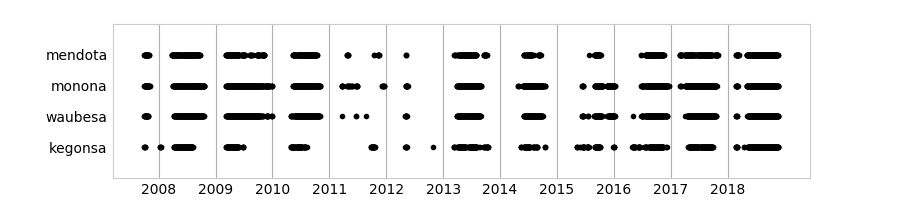
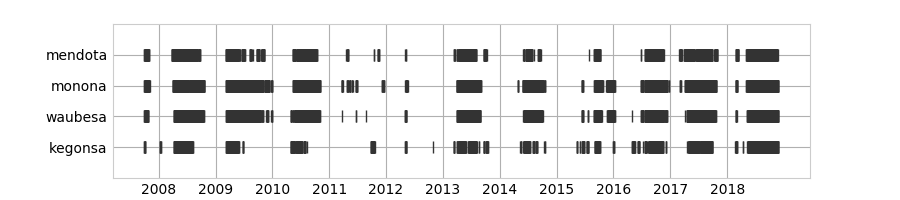
timeline graphic update

diff --git a/bin/make_graphic.py b/bin/make_graphic.py
@@ -20,12 +20,13 @@ def main():
         x = (df[name] > req.loc[name, 'summer_maximum']).astype(float)
         x[x == 0] = np.nan
         x *= i
-        ax.plot(x, 'k.', label=name, lw=3)
+        ax.plot(x, 'k.', label=name, markersize=8, markeredgewidth=1,
+                markeredgecolor='#333333', marker='|')
     ax.set_yticks(range(df.shape[1]))
     ax.set_yticklabels(df.columns)
     ax.set_ylim([-1, df.shape[1]])
     ax.set_xticks([datetime(year, 1, 1) for year in range(2008, 2019)])
-    ax.xaxis.grid()
+    ax.grid()
     for child in ax.get_children():
         if isinstance(child, matplotlib.spines.Spine):
             child.set_color('#cccccc')
